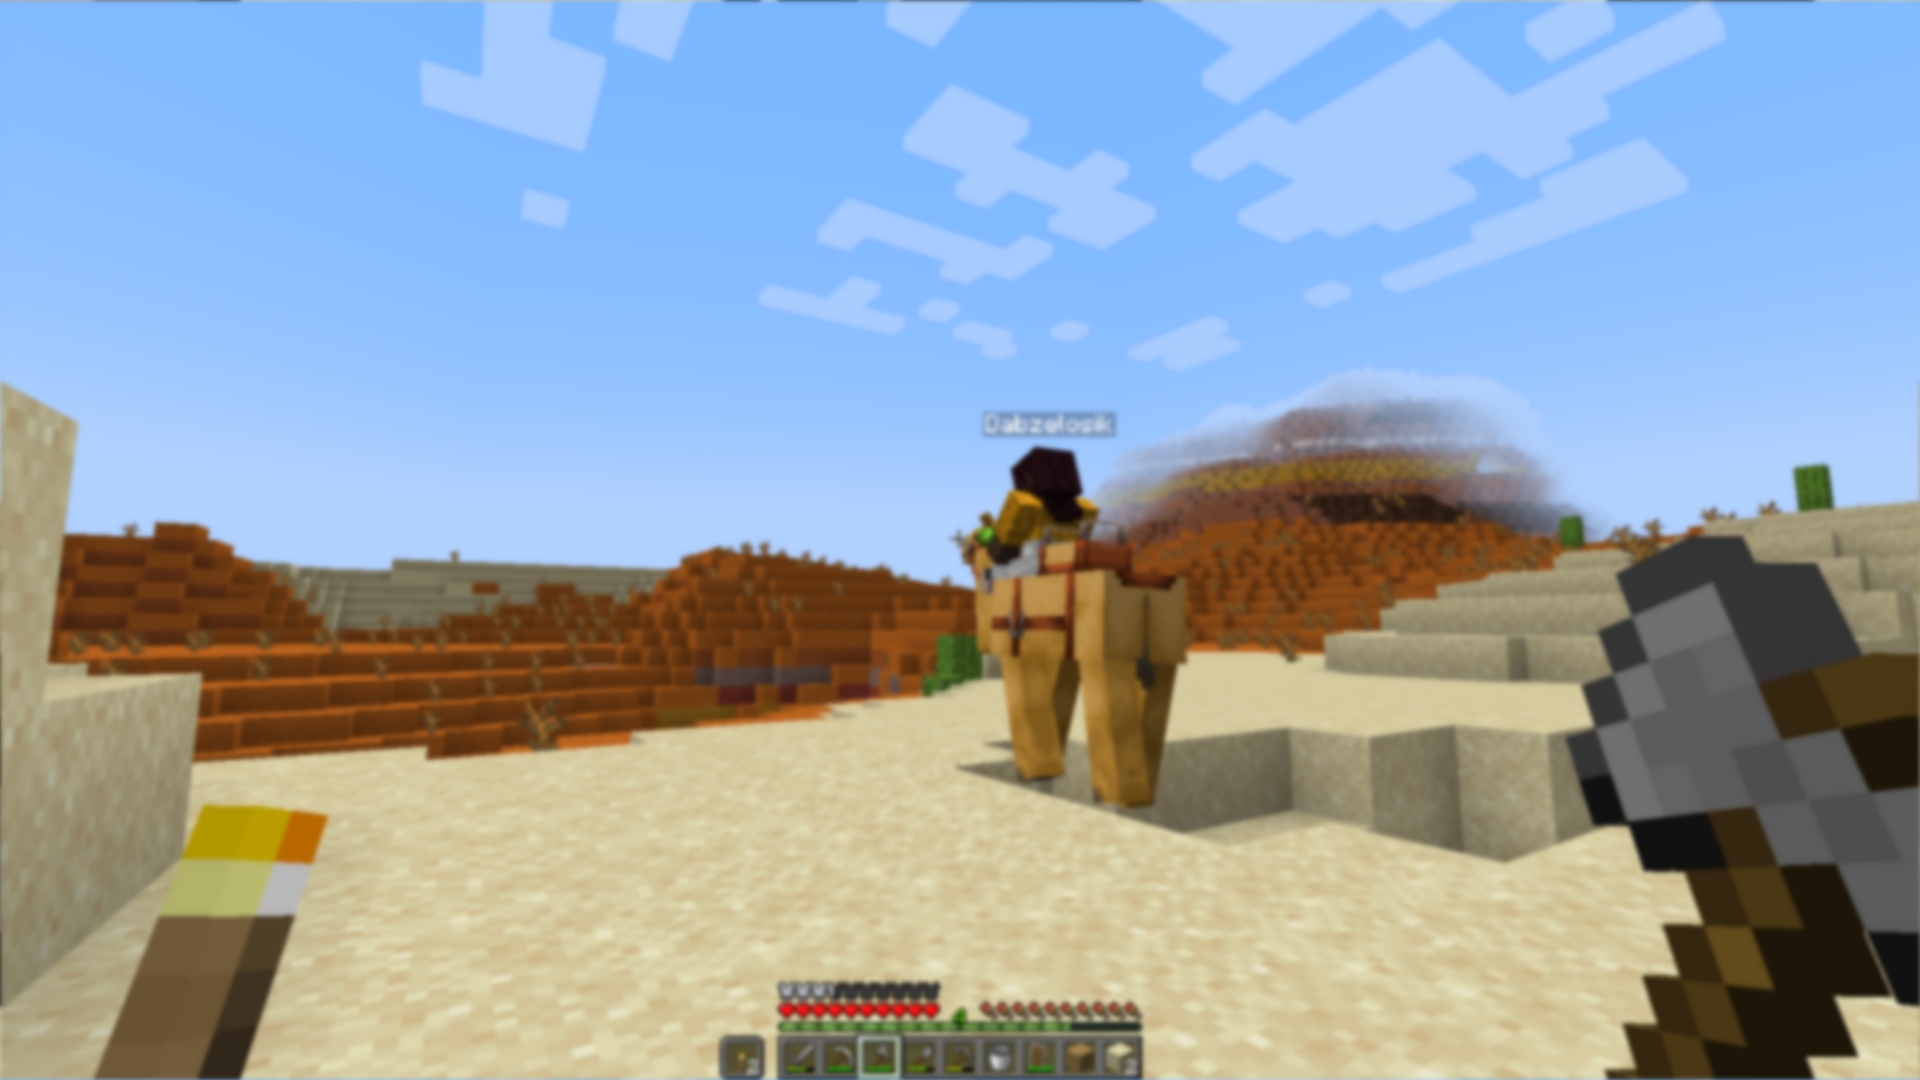
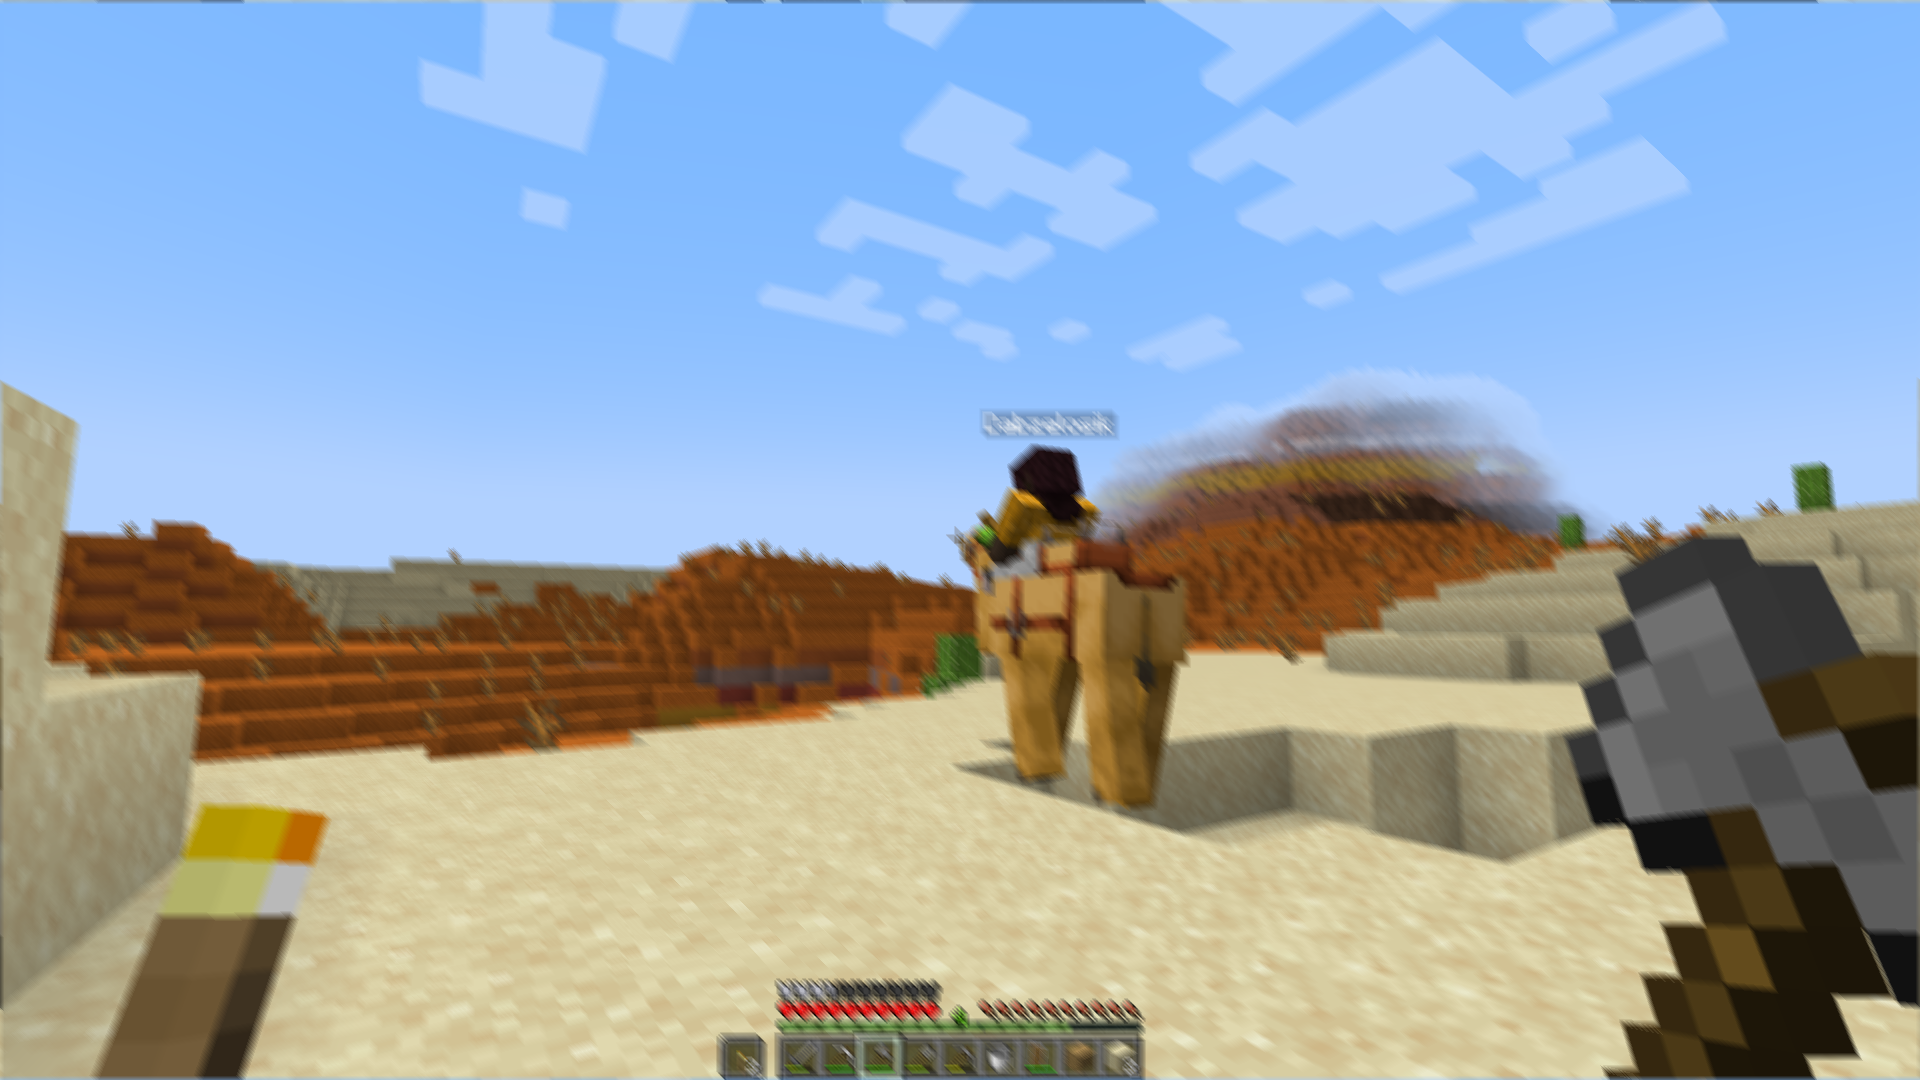
feat: refactoring

diff --git a/src/serial-conv.c b/src/serial-conv.c
@@ -1,62 +1,63 @@
-#include <stdio.h>
-#include <stdlib.h>
-
 #define STB_IMAGE_IMPLEMENTATION
 #define STB_IMAGE_WRITE_IMPLEMENTATION
 
+#include <filters.h>
+#include <serial-conv.h>
 #include <stb_image.h>
 #include <stb_image_write.h>
+#include <stdlib.h>
 
 #define min(a, b) ((a) < (b) ? (a) : (b))
 #define max(a, b) ((a) > (b) ? (a) : (b))
 
-void convolution(unsigned char* pixel_array, int w, int h) {
-    double factor = 1.0 / 13.0;
-    double bias = 0.0;
-    unsigned char* result = malloc(w * h * 3);
-    int filterWidth = 5;
-    int filterHeight = 5;
-    double filter[5][5] = {
-        0, 0, 1, 0, 0,  //
-        0, 1, 1, 1, 0,  //
-        1, 1, 1, 1, 1,  //
-        0, 1, 1, 1, 0,  //
-        0, 0, 1, 0, 0,  //
+void convolution(unsigned char* pixel_array, int w, int h, struct filter filter) {
+    struct pixel {
+        unsigned char r;
+        unsigned char g;
+        unsigned char b;
     };
+
+    struct pixel* result = malloc(w * h * 3);
+    struct pixel* image = (struct pixel*)pixel_array;
 
     for (int x = 0; x < w; x++) {
         for (int y = 0; y < h; y++) {
             double red = 0.0, green = 0.0, blue = 0.0;
-            // multiply every value of the filter with corresponding image pixel
-            for (int filterY = 0; filterY < filterHeight; filterY++) {
-                for (int filterX = 0; filterX < filterWidth; filterX++) {
-                    int imageX = (x - filterWidth / 2 + filterX + w) % w;
-                    int imageY = (y - filterHeight / 2 + filterY + h) % h;
-                    red += pixel_array[(imageY * w + imageX) * 3 + 0] * filter[filterY][filterX];
-                    green += pixel_array[(imageY * w + imageX) * 3 + 1] * filter[filterY][filterX];
-                    blue += pixel_array[(imageY * w + imageX) * 3 + 2] * filter[filterY][filterX];
+
+            for (int filterY = 0; filterY < filter.size; filterY++) {
+                for (int filterX = 0; filterX < filter.size; filterX++) {
+                    int imageX = (x - filter.size / 2 + filterX + w) % w;
+                    int imageY = (y - filter.size / 2 + filterY + h) % h;
+
+                    red += image[imageY * w + imageX].r * filter.filter[filterY][filterX];
+                    green += image[imageY * w + imageX].g * filter.filter[filterY][filterX];
+                    blue += image[imageY * w + imageX].b * filter.filter[filterY][filterX];
                 }
             }
-            // truncate values smaller than zero and larger than 255
-            result[(y * w + x) * 3 + 0] = min(max((int)(factor * red + bias), 0), 255);
-            result[(y * w + x) * 3 + 1] = min(max((int)(factor * green + bias), 0), 255);
-            result[(y * w + x) * 3 + 2] = min(max((int)(factor * blue + bias), 0), 255);
+
+            result[(y * w + x)].r = min(max((int)(filter.factor * red + filter.bias), 0), 255);
+            result[(y * w + x)].g = min(max((int)(filter.factor * green + filter.bias), 0), 255);
+            result[(y * w + x)].b = min(max((int)(filter.factor * blue + filter.bias), 0), 255);
         }
     }
 
     memcpy(pixel_array, result, w * h * 3);
+    free(result);
 }
 
 void serial_run(const char* read_path, const char* write_path) {
     int w, h, n;
     unsigned char* data = stbi_load(read_path, &w, &h, &n, 3);
-    printf("%d %d %d\n", w, h, n);
 
-    convolution(data, w, h);
-    convolution(data, w, h);
-    convolution(data, w, h);
-    convolution(data, w, h);
-    convolution(data, w, h);
+    struct filter motion_blur = {
+        .factor = 1.0 / 9.0,
+        .bias = 0.0,
+        .size = 9,
+        .filter = copy_filter_matrix(9, motion_blur_filter_matrix),
+    };
+
+    convolution(data, w, h, motion_blur);
 
     stbi_write_png(write_path, w, h, 3, data, w * 3);
+    free_filter_matrix(&motion_blur);
 }

diff --git a/src/filters.c b/src/filters.c
@@ -1,0 +1,43 @@
+#include <filters.h>
+#include <stdlib.h>
+#include <string.h>
+
+double blur_filter_matrix[5][5] = {
+    0, 0, 1, 0, 0,  //
+    0, 1, 1, 1, 0,  //
+    1, 1, 1, 1, 1,  //
+    0, 1, 1, 1, 0,  //
+    0, 0, 1, 0, 0,  //
+};
+
+double motion_blur_filter_matrix[9][9] = {
+    1, 0, 0, 0, 0, 0, 0, 0, 0,  //
+    0, 1, 0, 0, 0, 0, 0, 0, 0,  //
+    0, 0, 1, 0, 0, 0, 0, 0, 0,  //
+    0, 0, 0, 1, 0, 0, 0, 0, 0,  //
+    0, 0, 0, 0, 1, 0, 0, 0, 0,  //
+    0, 0, 0, 0, 0, 1, 0, 0, 0,  //
+    0, 0, 0, 0, 0, 0, 1, 0, 0,  //
+    0, 0, 0, 0, 0, 0, 0, 1, 0,  //
+    0, 0, 0, 0, 0, 0, 0, 0, 1,  //
+};
+
+double** copy_filter_matrix(int size, double matrix[size][size]) {
+    double** result;
+
+    result = malloc(size * sizeof(double*));
+    for (int i = 0; i < size; i++) {
+        result[i] = malloc(size * sizeof(double));
+        memcpy(result[i], matrix[i], size * sizeof(double));
+    }
+
+    return result;
+}
+
+void free_filter_matrix(struct filter* filter) {
+    for (int i = 0; i < filter->size; i++) {
+        free(filter->filter[i]);
+    }
+
+    free(filter->filter);
+}

diff --git a/include/filters.h b/include/filters.h
@@ -1,0 +1,14 @@
+#pragma once
+
+struct filter {
+    double factor;
+    double bias;
+    int size;
+    double** filter;
+};
+
+extern double blur_filter_matrix[5][5];
+extern double motion_blur_filter_matrix[9][9];
+
+double** copy_filter_matrix(int size, double matrix[size][size]);
+void free_filter_matrix(struct filter* filter);
